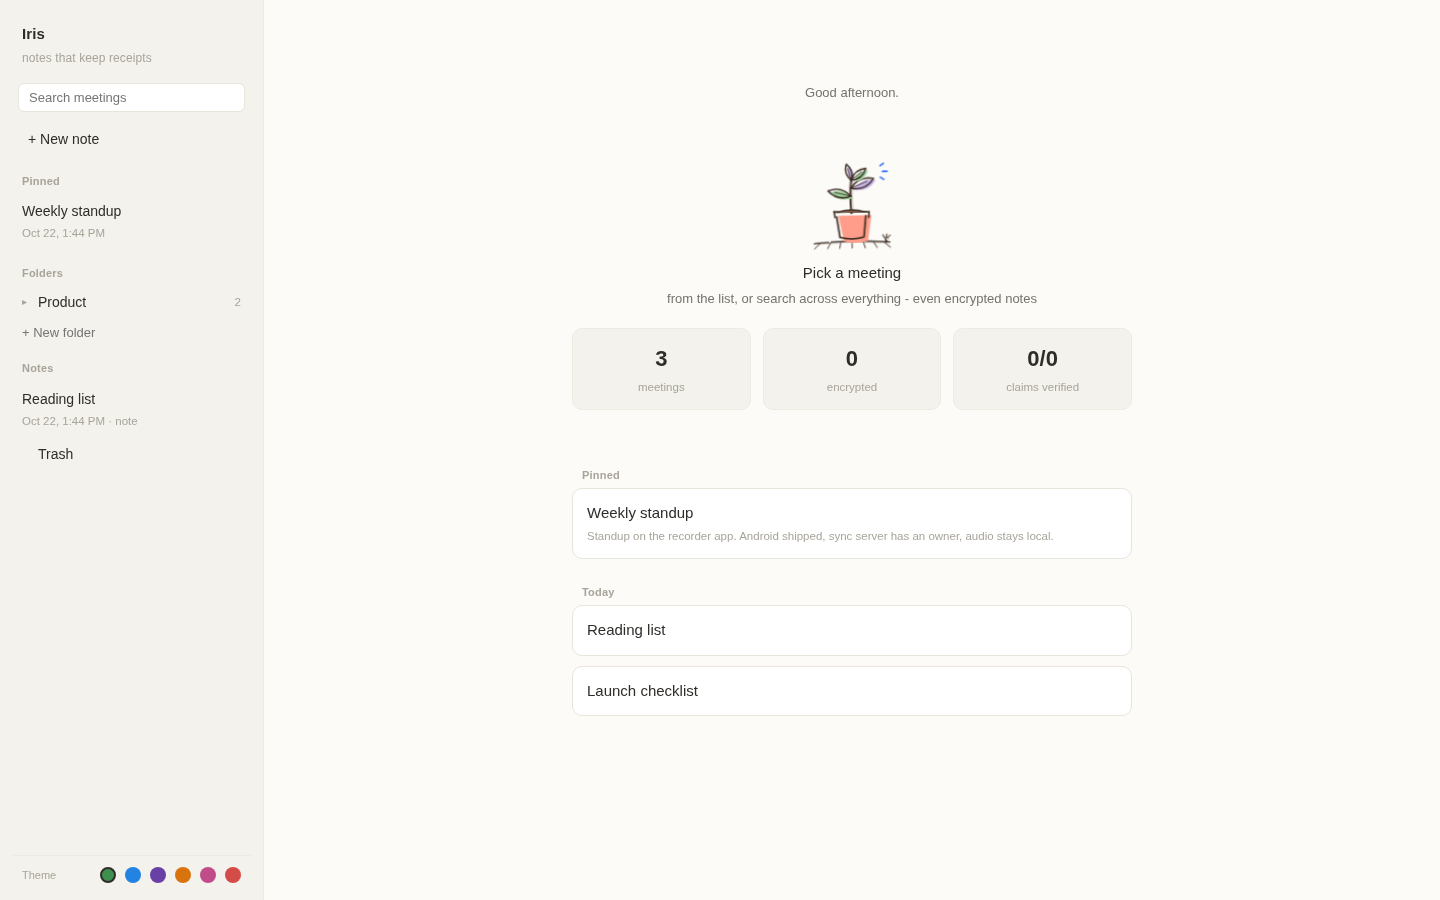
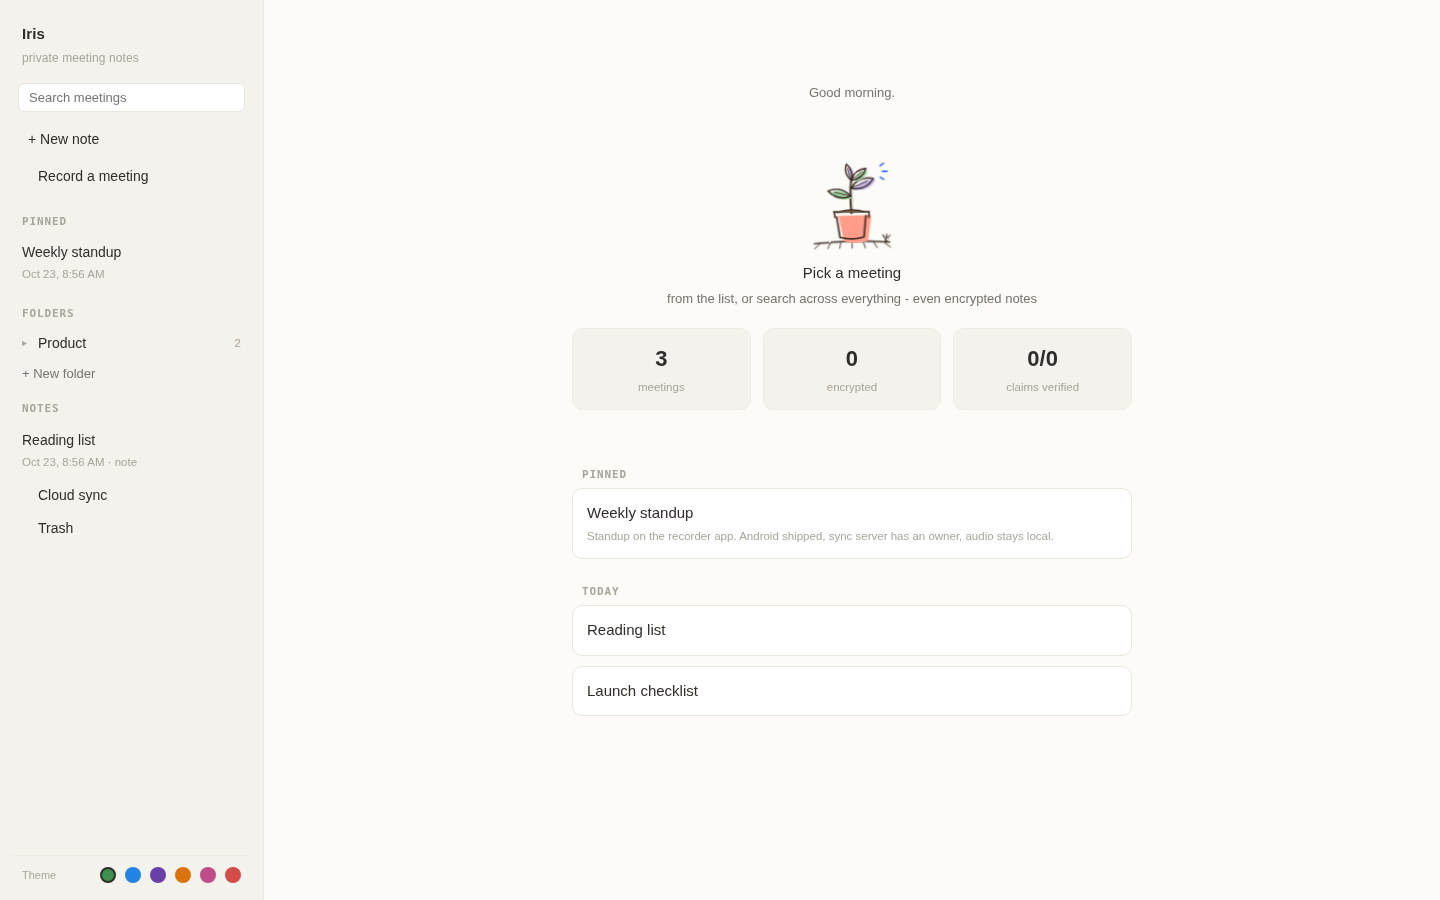
Refresh README screenshots: full set of the current UI, light and dark

diff --git a/README.md b/README.md
@@ -47,7 +47,12 @@ without it they are plain text, so use a relay you trust (Iris Cloud sends notes
 </p>
 <p>
 <img src="docs/screenshots/folder_1024_light.png" width="49%" alt="A project folder">
+<img src="docs/screenshots/ask_1440_light.png" width="49%" alt="Ask questions across your meetings">
+</p>
+<p>
 <img src="docs/screenshots/home_390_dark.png" width="22%" alt="Phone width, dark">
+<img src="docs/screenshots/note_390_light.png" width="22%" alt="A meeting note on phone width">
+<img src="docs/screenshots/trash_1024_light.png" width="49%" alt="Trash with restore">
 </p>
 
 Dark mode follows your system; six accent themes live in the sidebar footer.
